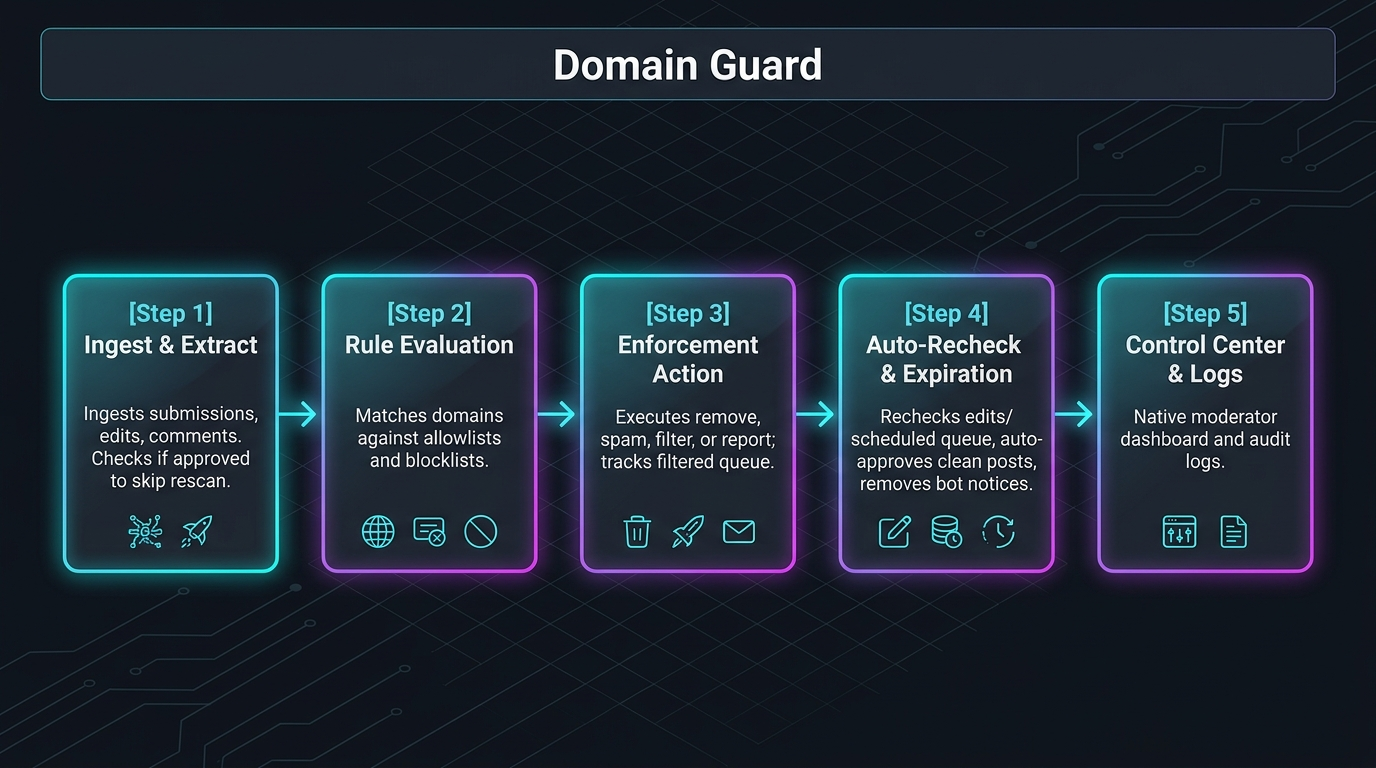
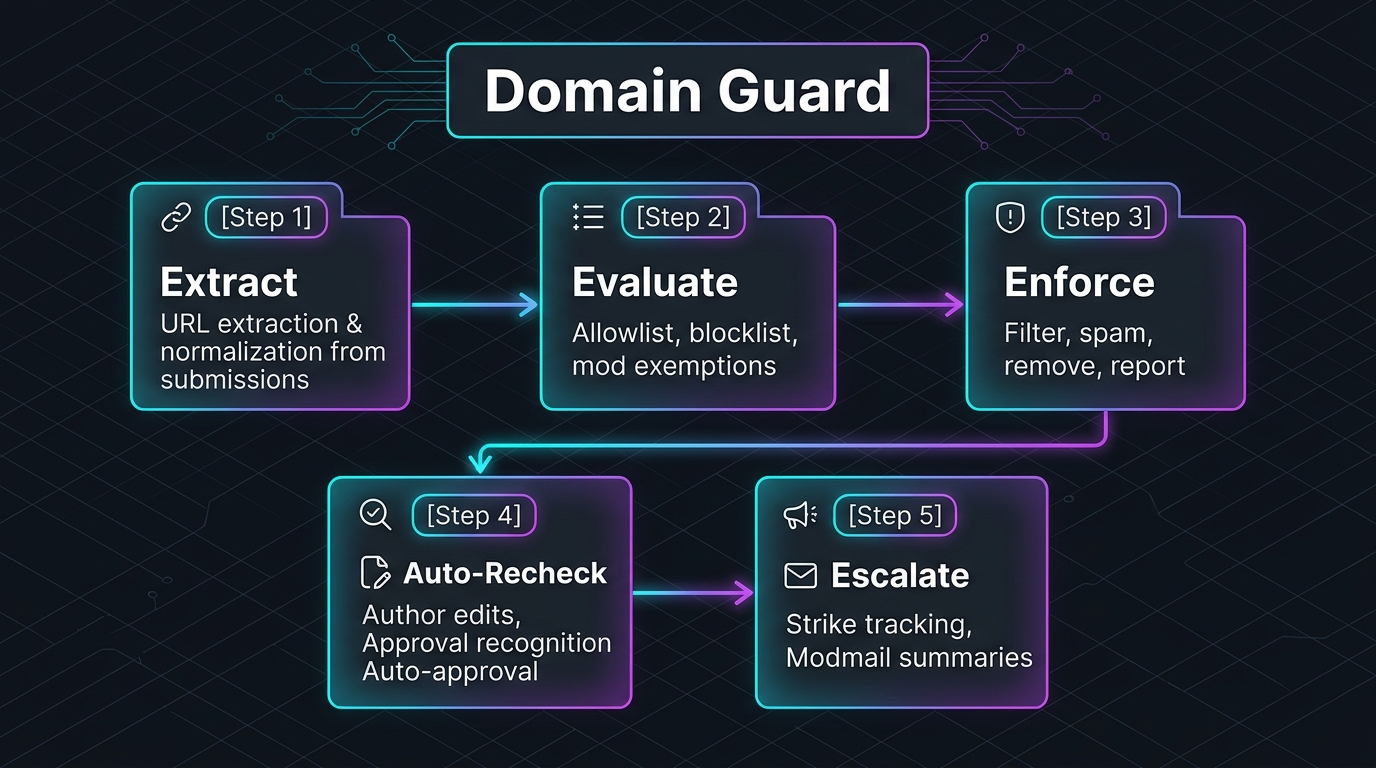
chore: update assets for rescue-guard v0.0.18

diff --git a/rescue-guard/wiki.html b/rescue-guard/wiki.html
@@ -1,7 +1,7 @@
 <h1>RescueGuard</h1>
 
 <p>Category: Moderation<br>
-Version: v0.0.17<br>
+Version: v0.0.18<br>
 Visibility: Public<br>
 Summary: Subreddit post-discovery & manual spotlight moderation engine for Reddit.</p>
 
@@ -71,12 +71,12 @@ Summary: Subreddit post-discovery & manual spotlight moderation engine for Reddi
 </ul>
 
 <h2>Version History</h2>
+<p>0.0.18 — 2026-09-04<br>
+Standard fleet synchronization and maintenance.</p>
 <p>0.0.17 — 2026-09-04<br>
 Standard fleet synchronization and maintenance.</p>
 <p>0.0.17 — 2026-09-04<br>
 Fix: Changed default spotlight action from None (Approve Only) to Pin to Community Highlights so clicking Spotlight pins candidate posts to the top of the subreddit feed.; Feature: Added Spotlight Action stat indicator to Review Hub header bar and informative action toasts detailing specific actions performed (pinned, flaired, approved).; Polish: Ensured clean, professional UI text across all notices, status indicators, and notification toasts.</p>
-<p>0.0.16 — 2026-09-04<br>
-Fix: Converted webview button actions from inline `onclick` attributes to CSP-compliant event delegation (`data-action`, `data-post-id`, and `addEventListener`) so buttons work across all Reddit webview environments.; Feature: Added `reddit.approve(postId)` execution on Spotlight action so posts are cleared from the mod queue.; Feature: Added dynamic subreddit flair discovery in the Settings modal with auto-detection, a `None (Approve Only)` action option, and clear warning banners when flair is unconfigured.</p>
 
 <h2>Links</h2>
 <ul>

diff --git a/rescue-guard/wiki.md b/rescue-guard/wiki.md
@@ -1,7 +1,7 @@
 # RescueGuard
 
 Category: Moderation  
-Version: v0.0.17  
+Version: v0.0.18  
 Visibility: Public  
 Summary: Subreddit post-discovery & manual spotlight moderation engine for Reddit.
 
@@ -63,6 +63,9 @@ This app utilizes Reddit Redis storage for state management, caching, and rate l
 - Ensure all required app settings and API keys are properly configured in Mod Tools.
 
 ## Version History
+0.0.18 — 2026-09-04
+- Standard fleet synchronization and maintenance.
+
 0.0.17 — 2026-09-04
 - Standard fleet synchronization and maintenance.
 
@@ -70,11 +73,6 @@ This app utilizes Reddit Redis storage for state management, caching, and rate l
 - Fix: Changed default spotlight action from None (Approve Only) to Pin to Community Highlights so clicking Spotlight pins candidate posts to the top of the subreddit feed.
 - Feature: Added Spotlight Action stat indicator to Review Hub header bar and informative action toasts detailing specific actions performed (pinned, flaired, approved).
 - Polish: Ensured clean, professional UI text across all notices, status indicators, and notification toasts.
-
-0.0.16 — 2026-09-04
-- Fix: Converted webview button actions from inline `onclick` attributes to CSP-compliant event delegation (`data-action`, `data-post-id`, and `addEventListener`) so buttons work across all Reddit webview environments.
-- Feature: Added `reddit.approve(postId)` execution on Spotlight action so posts are cleared from the mod queue.
-- Feature: Added dynamic subreddit flair discovery in the Settings modal with auto-detection, a `None (Approve Only)` action option, and clear warning banners when flair is unconfigured.
 
 ## Links
 - [Terms of Service](https://github.com/grantdb/reddit-app-legal/blob/main/rescue-guard/TERMS.md)
